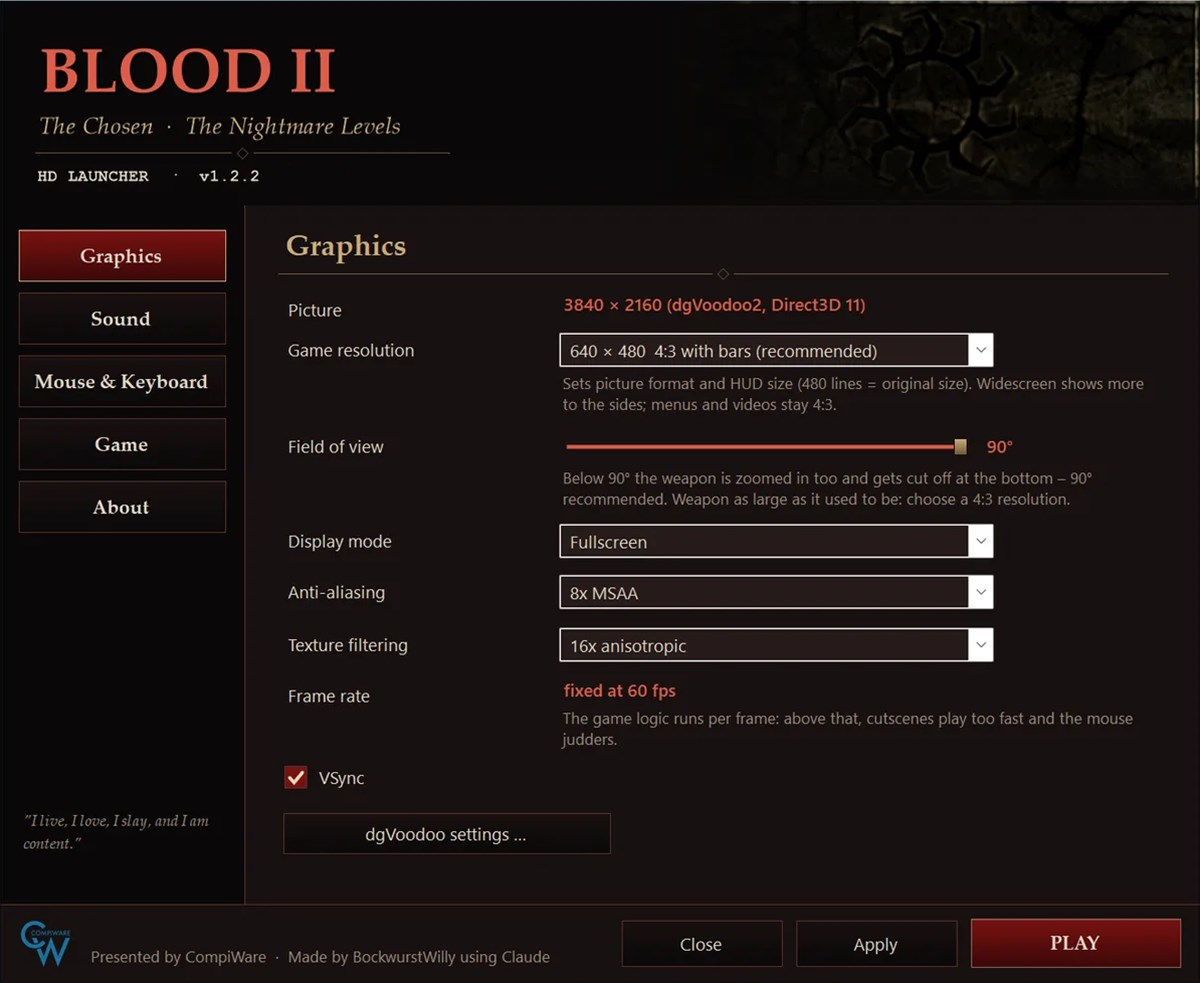
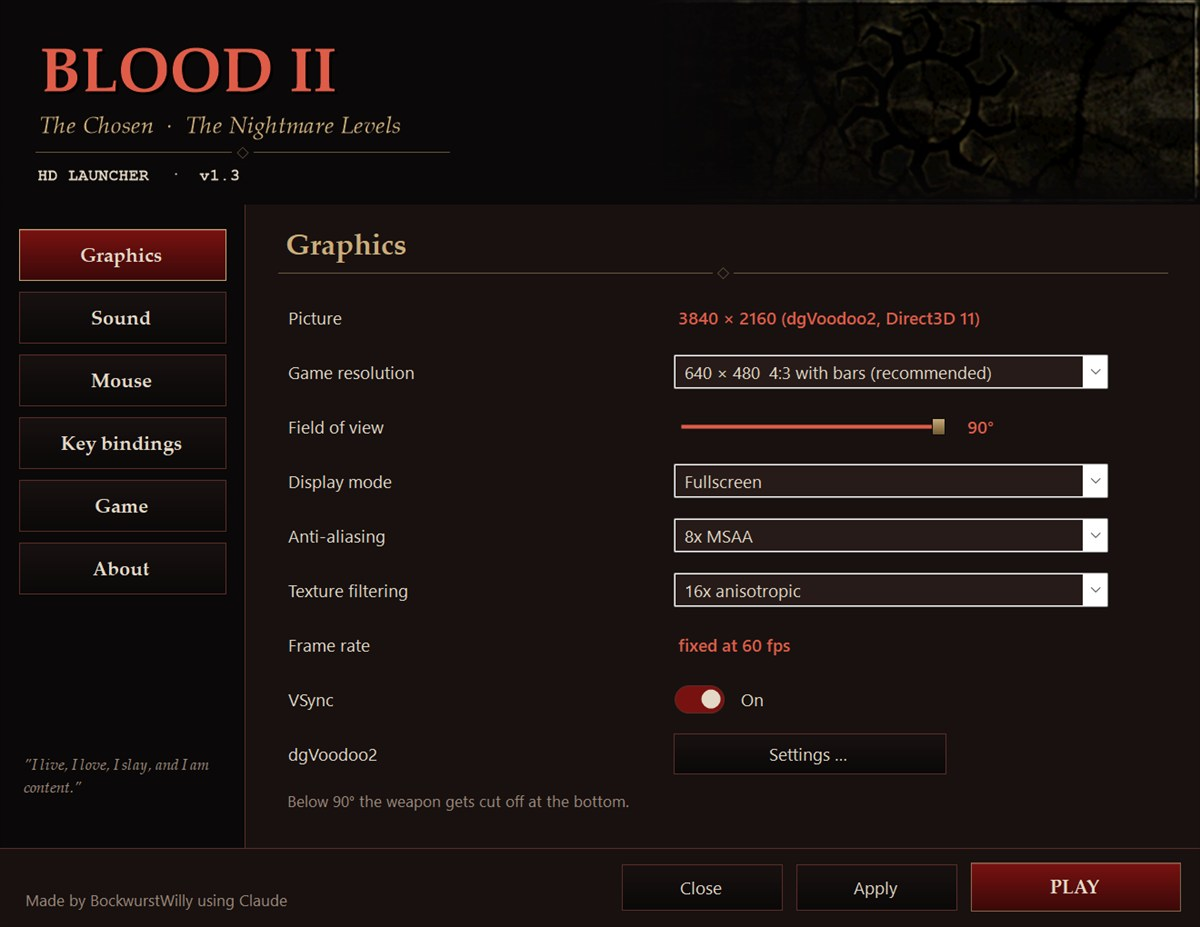
Blood II HD 1.3: launcher image without window frame, ZIP download only

diff --git a/projects.js b/projects.js
@@ -30,9 +30,9 @@ const PROJECTS = [
       ["Game",   "Blood II: The Chosen + The Nightmare Levels (GOG)"],
       ["System", "Windows 10/11"],
     ],
-    image: "img/blood2-hd.jpg",
+    image: "img/blood2-hd.jpg?v=2",
     imageAlt: "The Blood II HD launcher, graphics settings page",
-    asset: /\.(zip|exe)$/i,
+    asset: /\.zip$/i,
     links: [["View on GitHub", "https://github.com/BockwurstWilly/Blood2-HD-Patch"]],
   },
   {

diff --git a/index.html b/index.html
@@ -57,7 +57,7 @@
   </div>
 </div></footer>
 
-<script src="projects.js?v=6"></script>
+<script src="projects.js?v=7"></script>
 <script src="main.js?v=3"></script>
 </body>
 </html>
